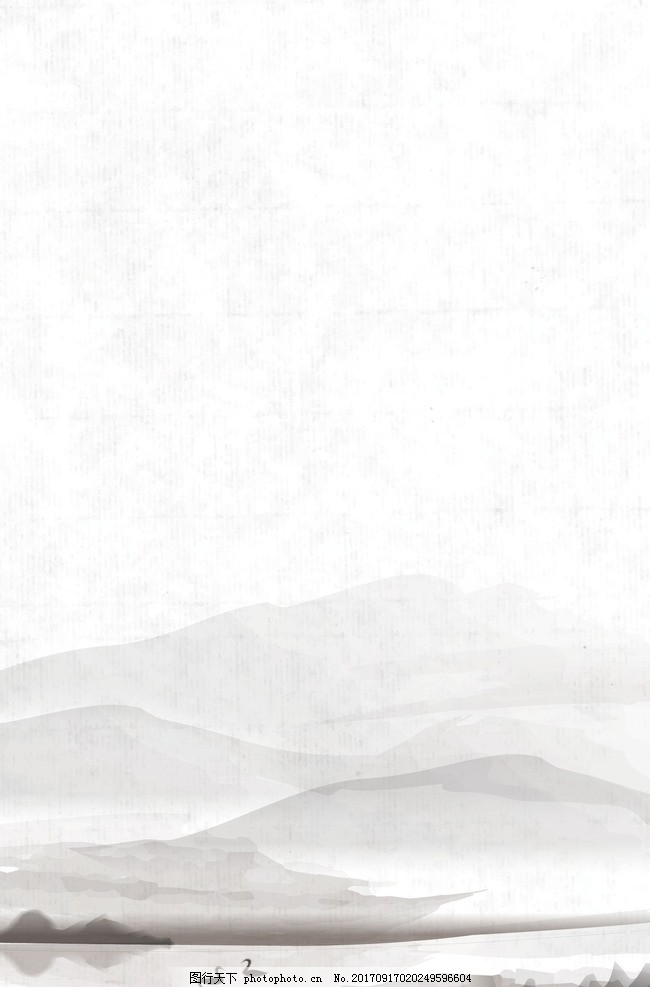
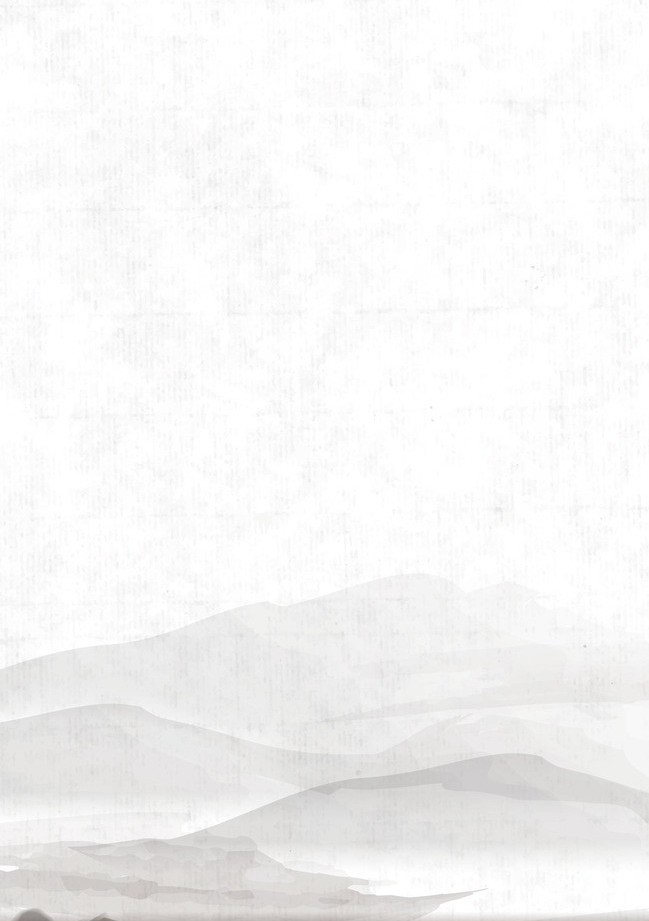
2023年02月20日～晚上
調整背景的位置

diff --git a/01-Website/CERTIFICATE-PersonalPortfolio.css b/01-Website/CERTIFICATE-PersonalPortfolio.css
@@ -109,10 +109,10 @@ img {
 .nav {
     display: flex;
     justify-content: flex-end;
-    position: static;
+    position: absolute;
     height: auto;
     top: 0;
-    left: 0;
+    /* left: 0; */
     width: 100%;
     background: transparent;
     box-shadow: 0 2px 0 rgba(0, 0, 0, 0.1);
@@ -138,10 +138,14 @@ img {
     display: block;
     font-size: 2.2rem;
     padding: 2rem;
+    transition: transform 0.3s ease-out;
+    /* TODO make text white */
+    /* transition: var(--main-white); */
 }
 
 .nav-list a:hover {
     background: var(--main-blue);
+    transform: translateY(5px);
 }
 
 /* Welcome section */
@@ -158,6 +162,7 @@ img {
     background-color: #000;
     background-image: url(../assets/mountains-bottom.jpg);
     background-size: cover;
+    background-position: bottom;
 }
 
 .welcome-section>p {
